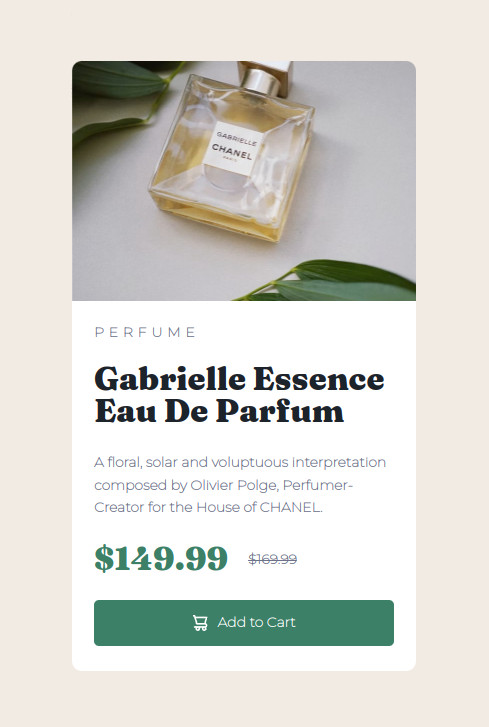
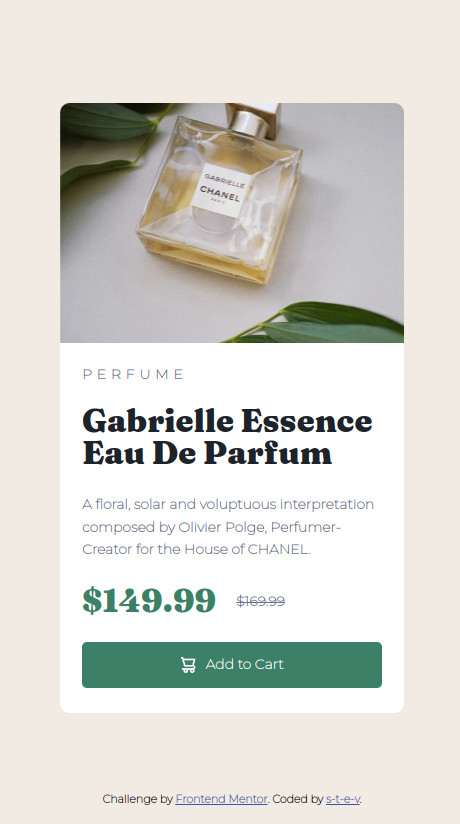
remove flex-dir + update screenshoot & readme

Changed region(s): [[0.1217, 0.0605, 0.8826, 0.9381], [0.2435, 0.9684, 0.5783, 0.9986], [0.6087, 0.9684, 0.7913, 0.9986]]

diff --git a/styles.css b/styles.css
@@ -25,7 +25,6 @@ body {
     background-color: hsl(30, 38%, 92%);
 
     display: flex;
-    flex-direction: column;
 
 }
 

diff --git a/README-draft.md b/README-draft.md
@@ -54,7 +54,33 @@ Users should be able to:
 
 ### What I learned
 
-Below are the things I learned throughout this project.
+Below are the major things I learned throughout this project.
+
+#### Centering with flex + margin: auto
+
+I don't know why I was skeptical about with this way of doing but it's simple and very efficient:
+
+```css
+body {
+	/*some code above*/
+    
+    display: flex;
+}
+```
+
+```css
+#page {
+   /*some code above*/
+
+    margin: auto;
+    
+    /*some code bellow*/
+}
+```
+
+With this, `#page` and all of what it contains is centered horizontally and vertically
+
+It also helped to easily bottom center `.attribution`. Before that I was using a combination of `display: flex` + `justify-content: center` + `align-items: center` in `body`, which complicated `.attribution` bottom centering.
 
 #### Equally space elements in a box while keeping elements inside
 
@@ -204,6 +230,7 @@ The resources bellow gave me the necessary knowledge to do this project:
 - [CSS Outside Border](https://stackoverflow.com/questions/9102900/css-outside-border): This Stackoverflow Q & A helped me to understand the effect of borders on box size in CSS.
 - [CSS padding overrides overflow?](https://stackoverflow.com/questions/19051411/css-padding-overrides-overflow): This Stackoverflow Q & A was **key** to complete this project. He helped me to tame the flex items in a box, so it stays inside instead of overflowing, thanks to the CSS code `box-sizing: border-box`.
 - [Better way to set distance between flexbox items](https://stackoverflow.com/questions/20626685/better-way-to-set-distance-between-flexbox-items): This encourages me to use 'gap' property to put space between flex items.
+- [“position absolute bottom center” Code Answer’s](https://www.codegrepper.com/code-examples/css/position+absolute+bottom+center): Helped me to bottom center *attribution* <div>.
 
 ## Author
 
